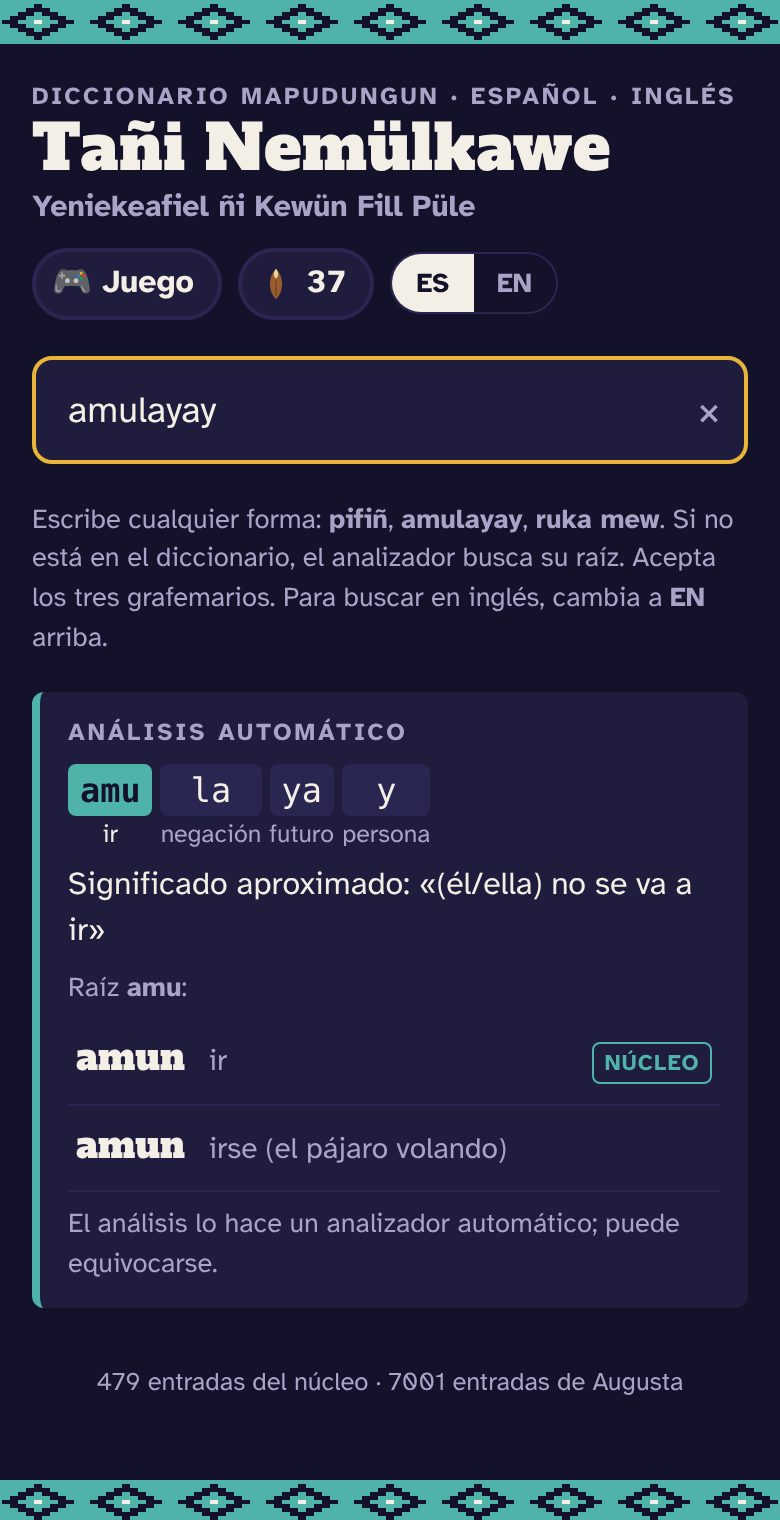
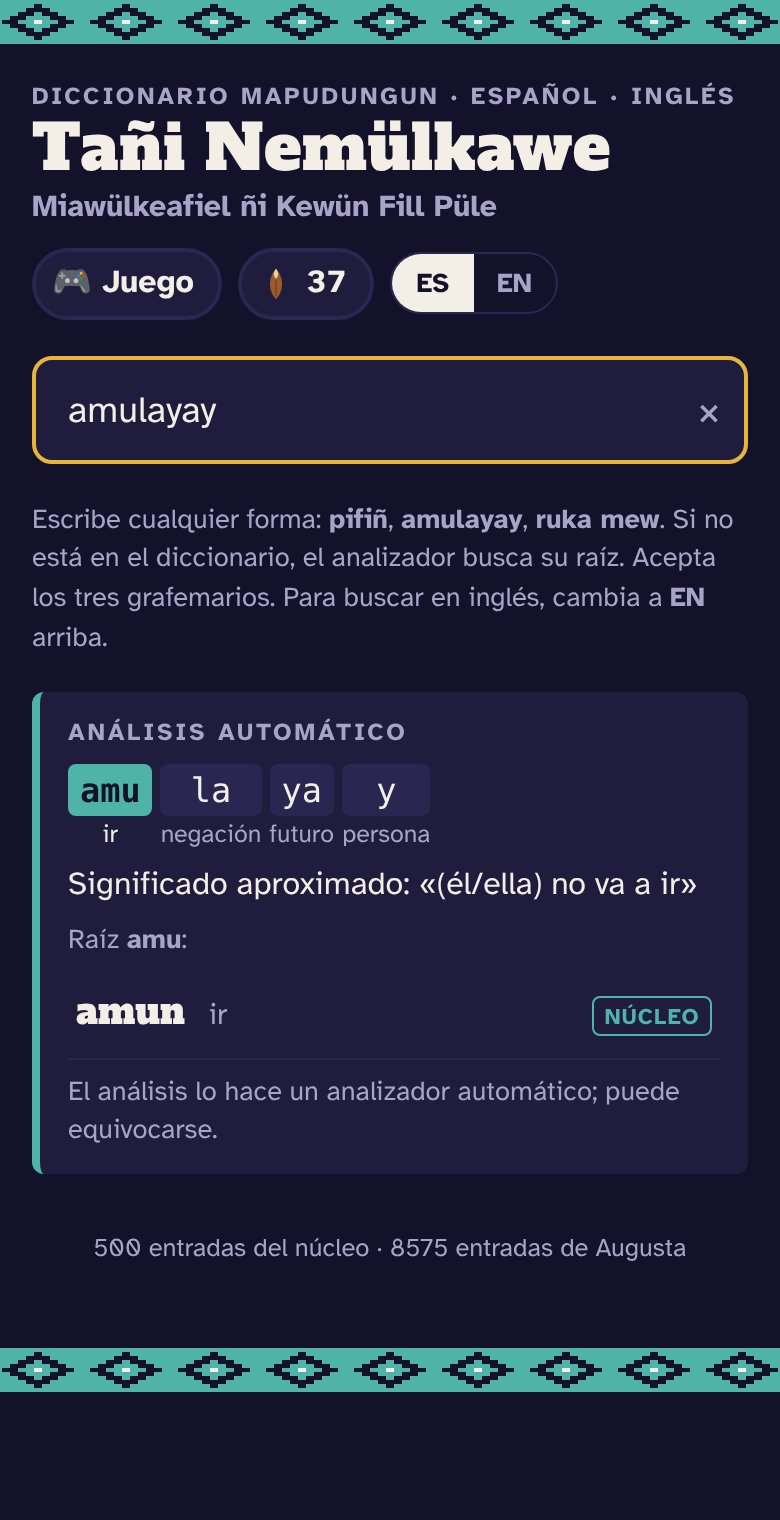
Diccionario: nuevo subtítulo «Miawülkeafiel ñi Kewün Fill Püle»
Claude-Session: https://claude.ai/code/session_01HTUZe6aDQBq8P38J9CFNUk

diff --git a/diccionario/acerca/index.html b/diccionario/acerca/index.html
@@ -9,7 +9,7 @@
 <meta property="og:title" content="Tañi Nemülkawe">
 <meta property="og:description" content="Diccionario gratuito mapudungun, español e inglés, con juegos de vocabulario. Funciona sin conexión.">
 <meta property="og:image" content="https://brogers36.github.io/Mapudungukeain/diccionario/acerca/img/d-home.jpg">
-<title>Tañi Nemülkawe: Yeniekeafiel ñi Kewün Fill Püle</title>
+<title>Tañi Nemülkawe: Miawülkeafiel ñi Kewün Fill Püle</title>
 <meta name="description" content="Diccionario gratuito mapudungun, español e inglés, con un analizador de formas conjugadas y seis juegos de vocabulario. Funciona sin conexión.">
 <link rel="preconnect" href="https://fonts.googleapis.com">
 <link rel="stylesheet" href="https://fonts.googleapis.com/css2?family=Alfa+Slab+One&family=Atkinson+Hyperlegible:ital,wght@0,400;0,700;1,400&display=swap">
@@ -131,7 +131,7 @@ footer{padding-block:28px 40px;color:var(--muted);font-size:.9rem;display:flex;f
   <section class="hero" aria-labelledby="t">
     <div class="copy">
       <p class="eyebrow"><span class="es">Diccionario mapudungun · español · inglés</span><span class="en">Mapudungun · Spanish · English dictionary</span></p>
-      <h1 id="t">Tañi Nemülkawe <span>Yeniekeafiel ñi Kewün Fill Püle</span></h1>
+      <h1 id="t">Tañi Nemülkawe <span>Miawülkeafiel ñi Kewün Fill Püle</span></h1>
       <p class="sub"><span class="es">«Mi diccionario: para llevar mi lengua a todas partes»</span><span class="en">“My dictionary: to carry my language everywhere”</span></p>
       <p class="lead"><span class="es">Un diccionario gratuito para buscar palabras en mapudungun, español e inglés, en cualquiera de los tres grafemarios. Si escribes una forma conjugada, como <span class="mapu">amulayay</span> o <span class="mapu">kimlafiñ</span>, un analizador la divide en raíz y sufijos y te lleva a la raíz. Funciona en el teléfono y sin conexión.</span><span class="en">A free dictionary for looking up words in Mapudungun, Spanish and English, in any of the three grafemarios. Type an inflected form such as <span class="mapu">amulayay</span> or <span class="mapu">kimlafiñ</span> and a parser splits it into root and suffixes and takes you to the root. It runs on your phone and works offline.</span></p>
       <div class="cta">
@@ -226,7 +226,7 @@ footer{padding-block:28px 40px;color:var(--muted);font-size:.9rem;display:flex;f
   if(MAP){
     var conv=function(w){ return w.replace(/ng|tr|ch|ll|sh|[gdü]/gi,function(x){ var lo=x.toLowerCase(),r=MAP[lo]; if(r==null) return x;
       if(x!==lo&&x===x.toUpperCase()) return r.toUpperCase(); if(x[0]!==lo[0]) return r[0].toUpperCase()+r.slice(1); return r; }); };
-    var W=["Yeniekeafiel ñi Kewün Fill Püle","Mapudungukeaiñ Fill Püle","Tañi Nemülkawe","Nemülkawe","Ngülliw","ngülliw"];
+    var W=["Miawülkeafiel ñi Kewün Fill Püle","Mapudungukeaiñ Fill Püle","Tañi Nemülkawe","Nemülkawe","Ngülliw","ngülliw"];
     var fix=function(t){ return W.reduce(function(a,w){ return a.split(w).join(conv(w)); },t); };
     var tw=document.createTreeWalker(document.body,NodeFilter.SHOW_TEXT), n;
     while((n=tw.nextNode())){ var v=fix(n.nodeValue); if(v!==n.nodeValue) n.nodeValue=v; }

diff --git a/diccionario/index.html b/diccionario/index.html
@@ -182,7 +182,7 @@ const nuts=()=>ld("mpk_nuts",0)||0;
 const addNuts=n=>{ if(n>0) sv("mpk_nuts",nuts()+n); };
 /* Mapudungun words in the interface (title, the game's name, ngülliw) follow the chosen grafemario like the entries do */
 function GW(s){ try{ if(graf==="uni"||s==null) return s;
-  return ["Yeniekeafiel ñi Kewün Fill Püle","Mapudungukeaiñ Fill Püle","Tañi Nemülkawe","Nemülkawe","Ngülliw","ngülliw"].reduce((t,w)=>t.split(w).join(G(w)),String(s)); }catch(e){ return s; } }
+  return ["Miawülkeafiel ñi Kewün Fill Püle","Mapudungukeaiñ Fill Püle","Tañi Nemülkawe","Nemülkawe","Ngülliw","ngülliw"].reduce((t,w)=>t.split(w).join(G(w)),String(s)); }catch(e){ return s; } }
 const L=(es,en)=>GW(lang==="es"?es:en);
 const esc=s=>String(s==null?"":s).replace(/[&<>"]/g,c=>({"&":"&amp;","<":"&lt;",">":"&gt;",'"':"&quot;"}[c]));
 const shuffle=a=>{a=a.slice();for(let i=a.length-1;i>0;i--){const j=Math.floor(Math.random()*(i+1));[a[i],a[j]]=[a[j],a[i]]}return a};
@@ -348,7 +348,7 @@ function home(){
   const nSaved=saved.length, due=dueCards(CORE.filter(e=>!e.ph)).length;
   app.innerHTML=`
     <div class="top"><div><p class="eyebrow">${L("Diccionario mapudungun · español · inglés","Mapudungun · Spanish · English dictionary")}</p>
-      <h1>${GW("Tañi Nemülkawe")}<small>${GW("Yeniekeafiel ñi Kewün Fill Püle")}</small></h1></div>${topBar()}</div>
+      <h1>${GW("Tañi Nemülkawe")}<small>${GW("Miawülkeafiel ñi Kewün Fill Püle")}</small></h1></div>${topBar()}</div>
     <div class="search" role="search"><input id="q" type="search" autocomplete="off" autocapitalize="off" spellcheck="false"
       placeholder="${L("Mapudungun o español","Mapudungun or English")}" aria-label="${L("Buscar","Search")}" value="${esc(lastQ)}">
       <button class="clr" id="clr" aria-label="${L("Borrar","Clear")}" ${lastQ?"":"hidden"}>×</button></div>

diff --git a/diccionario/sw.js b/diccionario/sw.js
@@ -1,6 +1,6 @@
 /* Tañi Nemülkawe: offline support. The page and data are fetched from the network first, so updates arrive as soon as
    there is a connection, and served from the cache when offline. The parser engine (motor.js) is cached after first use. */
-const CACHE = 'nemulkawe-20261105170215';
+const CACHE = 'nemulkawe-20261105174833';
 const CORE = ['./', './index.html', './datos.js', './manifest.webmanifest', './icon-192.png', './icon-512.png', './apple-touch-icon.png', './worker.js', './stub.js'];
 self.addEventListener('install', e => {
   e.waitUntil(caches.open(CACHE).then(c => c.addAll(CORE)).then(() => self.skipWaiting()));

diff --git a/README.md b/README.md
@@ -4,7 +4,7 @@ Un juego para aprender mapudungun (grafemario Unificado), con niveles desde Prin
 
 Juega en: https://brogers36.github.io/Mapudungukeain/
 
-Diccionario compañero, **Tañi Nemülkawe: Yeniekeafiel ñi Kewün Fill Püle** (mapudungun, español e inglés, con juegos de vocabulario): https://brogers36.github.io/Mapudungukeain/diccionario/ (página: https://brogers36.github.io/Mapudungukeain/diccionario/acerca/) · cómo se arma: `tools/dicc/README.md`.
+Diccionario compañero, **Tañi Nemülkawe: Miawülkeafiel ñi Kewün Fill Püle** (mapudungun, español e inglés, con juegos de vocabulario): https://brogers36.github.io/Mapudungukeain/diccionario/ (página: https://brogers36.github.io/Mapudungukeain/diccionario/acerca/) · cómo se arma: `tools/dicc/README.md`.
 
 Todo el juego está en un solo archivo, `index.html`. El progreso se guarda en el navegador de cada jugador.
 
